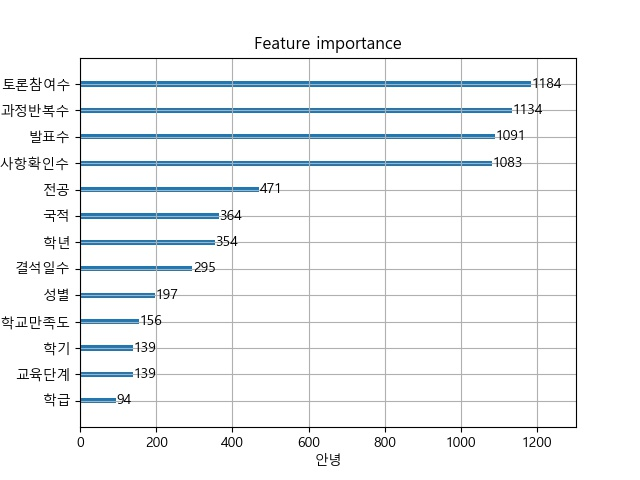
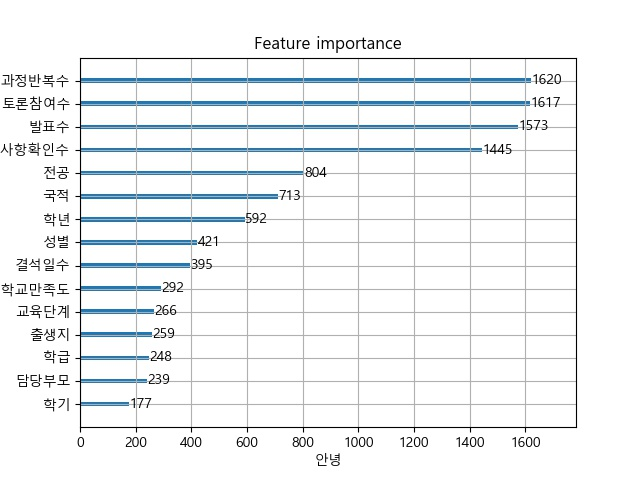
2020-07-03 수정완료

diff --git a/Django_final_project/yh/templates/ax.html b/Django_final_project/yh/templates/ax.html
@@ -6,5 +6,9 @@
 </head>
 <body>
 dsa
+<img alt="" src="../static/bbb.png">
+<div>
+{{a}}
+</div>
 </body>
 </html>

diff --git a/Django_final_project/yh/views.py b/Django_final_project/yh/views.py
@@ -10,8 +10,11 @@ from tensorflow.keras.models import Sequential
 from tensorflow.keras.layers import Dense
 from tensorflow.keras.callbacks import ModelCheckpoint,EarlyStopping
 from tensorflow.keras.utils import to_categorical
+from tensorflow.keras.callbacks import  EarlyStopping
+
 
 import os
+from tensorflow.keras import layers
 plt.rc('font',family='malgun gothic')
 # Create your views here.
 def mainFunc(request):
@@ -28,7 +31,7 @@ def mainFunc(request):
     
    
     
-    x = data[['성별','국적','교육단계','학년','학급','전공','학기','발표수','과정반복수','새공지사항확인수','토론참여수','결석일수','부모의학교만족도']]
+    x = data.drop('성적',axis=1)
     y = data['성적']
     
     print(x)
@@ -48,54 +51,81 @@ def mainFunc(request):
     
     #print('특성 중요도 :\n{}'.format(model.feature_importances_))
     plot_importance(model)
+    
     plt.xlabel('안녕')
     fig = plt.gcf()
-    fig.savefig(os.path.dirname(os.path.realpath(__file__)) + '\\static\\bbb.jpg')
+    fig.savefig(os.path.dirname(os.path.realpath(__file__)) + '\\static\\bbb.png')
   
     data2 = pd.read_csv('https://raw.githubusercontent.com/pyh3887/Django_final_project/master/education.csv',encoding='euc-kr')
+   
+   
+    print(data2)
+#     label = LabelEncoder()
+#     Cat_Colums = data2.dtypes.pipe(lambda Features: Features[Features=='object']).index
+#           
+#     for col in Cat_Colums:
+#         data2[col] = label.fit_transform(data2[col])
+#      
+    data2.loc[data2['성적'] == 'H','성적'] = 2
+    data2.loc[data2['성적'] == 'M','성적'] = 1
+    data2.loc[data2['성적'] == 'L','성적'] = 0
+     
     
     
     print(data2)
-    label = LabelEncoder()
-    Cat_Colums = data2.dtypes.pipe(lambda Features: Features[Features=='object']).index
-      
-    for col in Cat_Colums:
-        data2[col] = label.fit_transform(data2[col])
-    
-#     data2.loc[data2['성적'] == 'H','성적'] = 2
-#     data2.loc[data2['성적'] == 'M','성적'] = 1
-#     data2.loc[data2['성적'] == 'L','성적'] = 0
-    
-    print(data2)
+    #x_df = data2[['발표수','과정반복수','새공지사항확인수','토론참여수']]
+    #x_df = (x_df- x_df.mean())/x_df.std()
+    #print(x_df)
+    #dataset2 = x_df.values
     dataset = data2.values
     print(dataset)
-    x = dataset[:,9:13] # feature
-    
+    # x = dataset2[:,0:4]# feature
+    x = dataset[:,9:13].astype(float)# feature 
     y = dataset[:,-1]
     #print(y)
     nb_classes = 3  #label 7가지
     y_one_hot = to_categorical(y,num_classes= nb_classes)
-    
+    print(x)
+    print(y_one_hot[:3])
     model = Sequential()
-
-    model.add(Dense(32,input_shape=(3,),activation='relu')) # 입력데이터(노드) 보단 출력데이터(유닛)이 더 많도록하자(병목현상 방지)
-    model.add(Dense(16, activation='relu')) 
-    model.add(Dense(nb_classes,activation='softmax')) #마지막 값은 sigmoid 
+    
+    model.add(Dense(64,input_shape=(4,),activation='relu')) # 입력데이터(노드) 보단 출력데이터(유닛)이 더 많도록하자(병목현상 방지)
+    model.add(Dense(16, activation='relu'))
+    model.add(Dense(16, activation='relu'))
+    model.add(Dense(8, activation='relu'))      
+    model.add(Dense(3,activation='softmax')) # softmax 
     model.summary()
     model.compile(optimizer='adam',loss = 'categorical_crossentropy',metrics='accuracy')
-
-    history = model.fit(x,y_one_hot,epochs=100,batch_size=64, verbose=1) # 딥러닝 시작 
-
-    scores = model.evaluate(x,y) 
-    print('eval : ' , model.evaluate(x,y_one_hot))
     
+    #early_stop = EarlyStopping(monitor='loss',patience=100, baseline=0.4)
+    history = model.fit(x,y_one_hot,epochs=500, batch_size = 100, validation_split=0.3, verbose=2) # 딥러닝 시작 
+    scores = model.evaluate(x,y_one_hot)
+    
+    print('eval : ' , scores)
+     
     # 새로운 데이터로 
-    print(x[:1])
-    #new_data = np.array([[1.,0.,0.,1.,0.,0.,0.,0.,0.,0.,0.,0.,12.,0.,0.,0.]]) 
-    #print(np.argmax(model.predict(new_data))) # 5번 동물로 분류 
-
+    # M 0,0,1 L 0,1,0 H 1,0,0    
+      
+    new_data = np.array([[20,14,12,19]])
+    
+    print(np.argmax(model.predict(new_data)))
+  
+    if np.argmax(model.predict(new_data)) == 2:
+        a = '성적이  상위권으로 예측됩니다.'
+          
+ 
+    elif np.argmax(model.predict(new_data)) == 1:
+        a = '성적이 중위권으로 예측됩니다.'
+ 
+    else :
+        a = '성적이 하위권 으로 예측됩니다.'
+     
+    print(a)
+         
+            
     
     
     
     
-    return render(request,'ax.html')
+    
+    return render(request,'ax.html',{'a':a})
